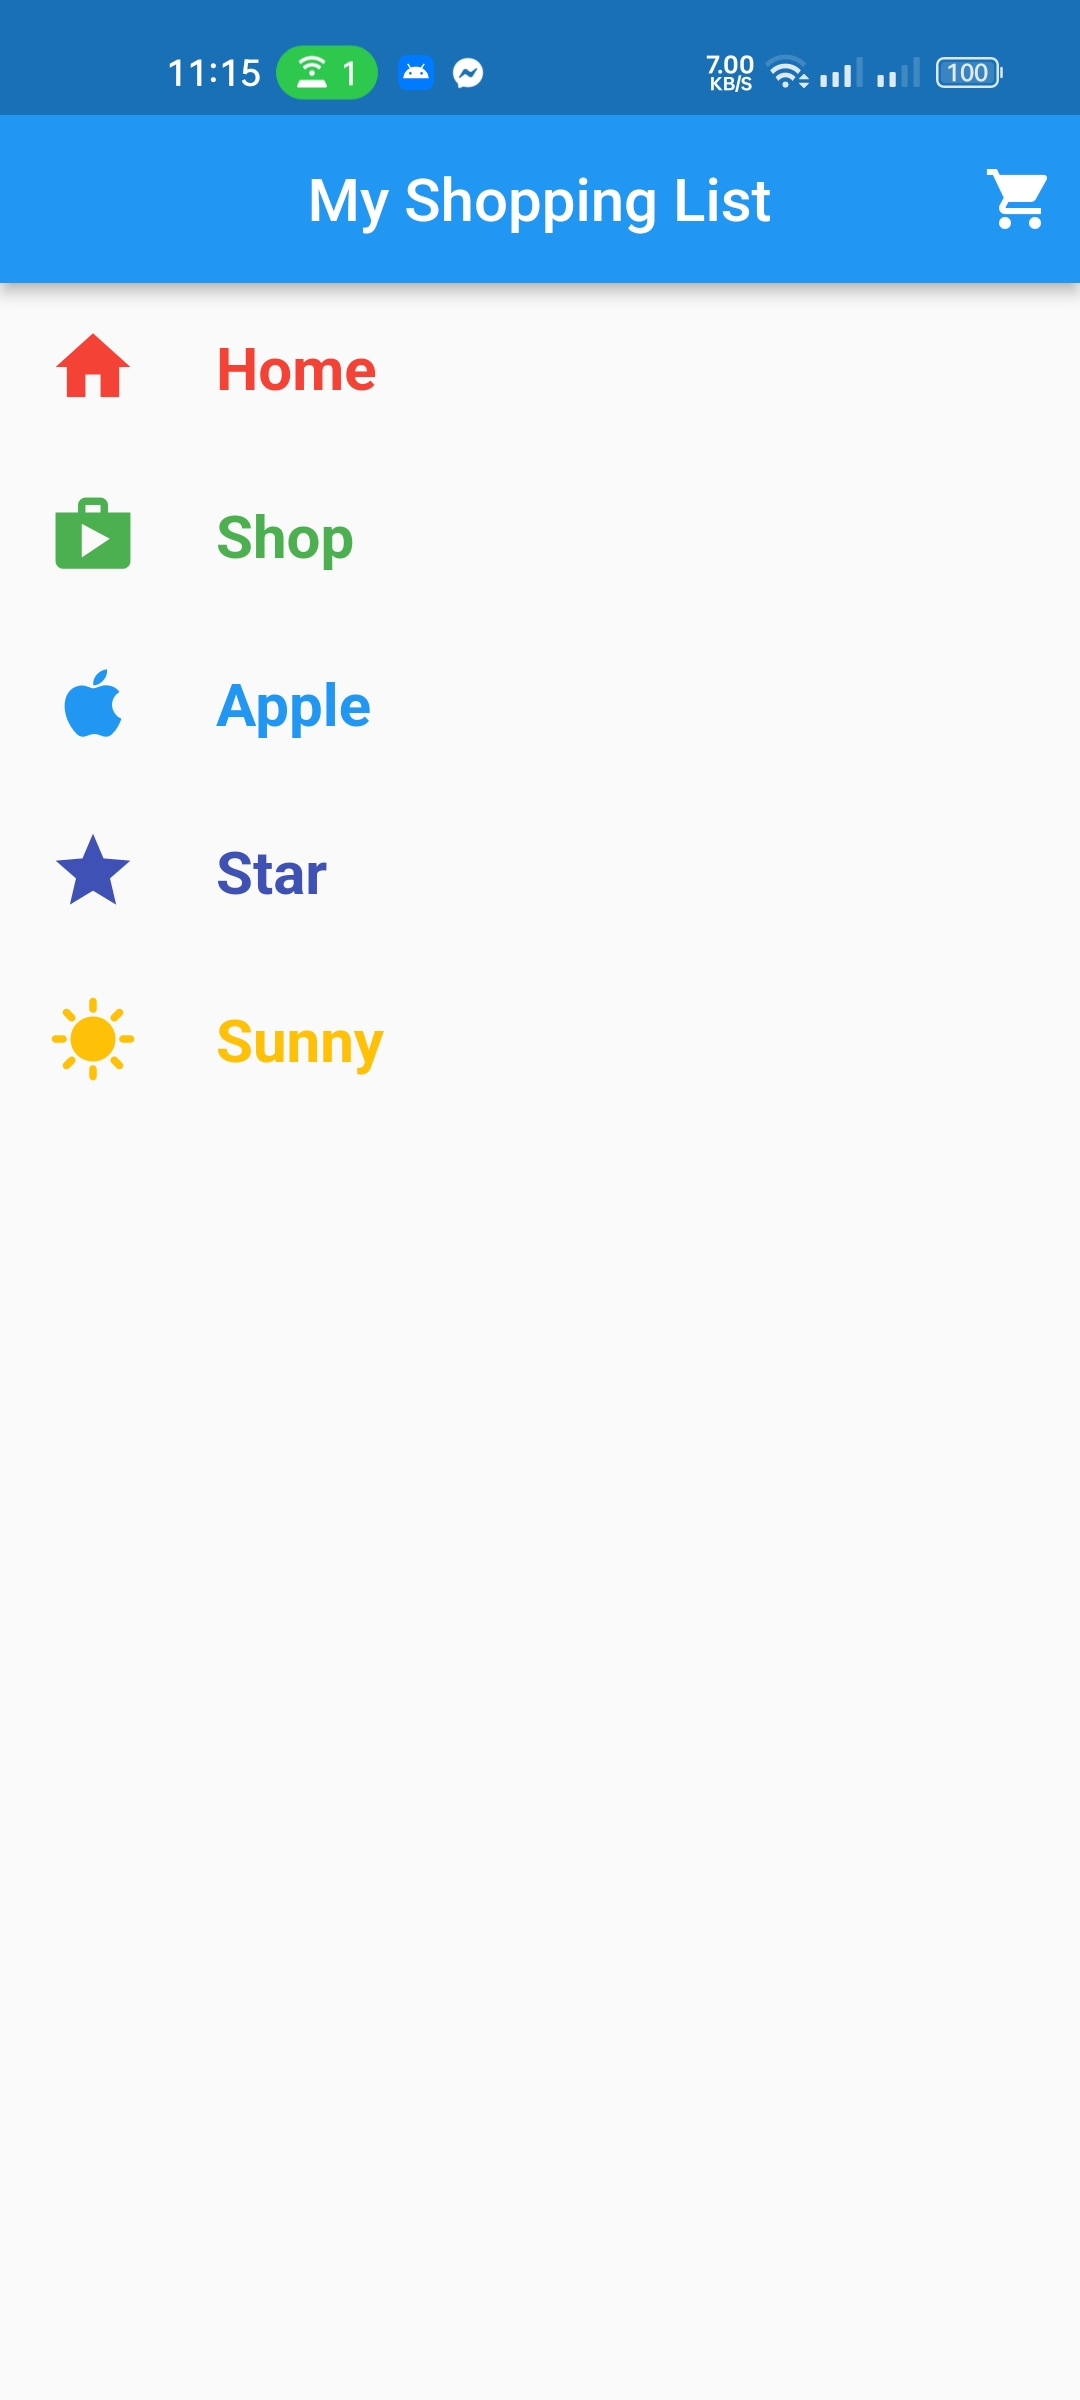
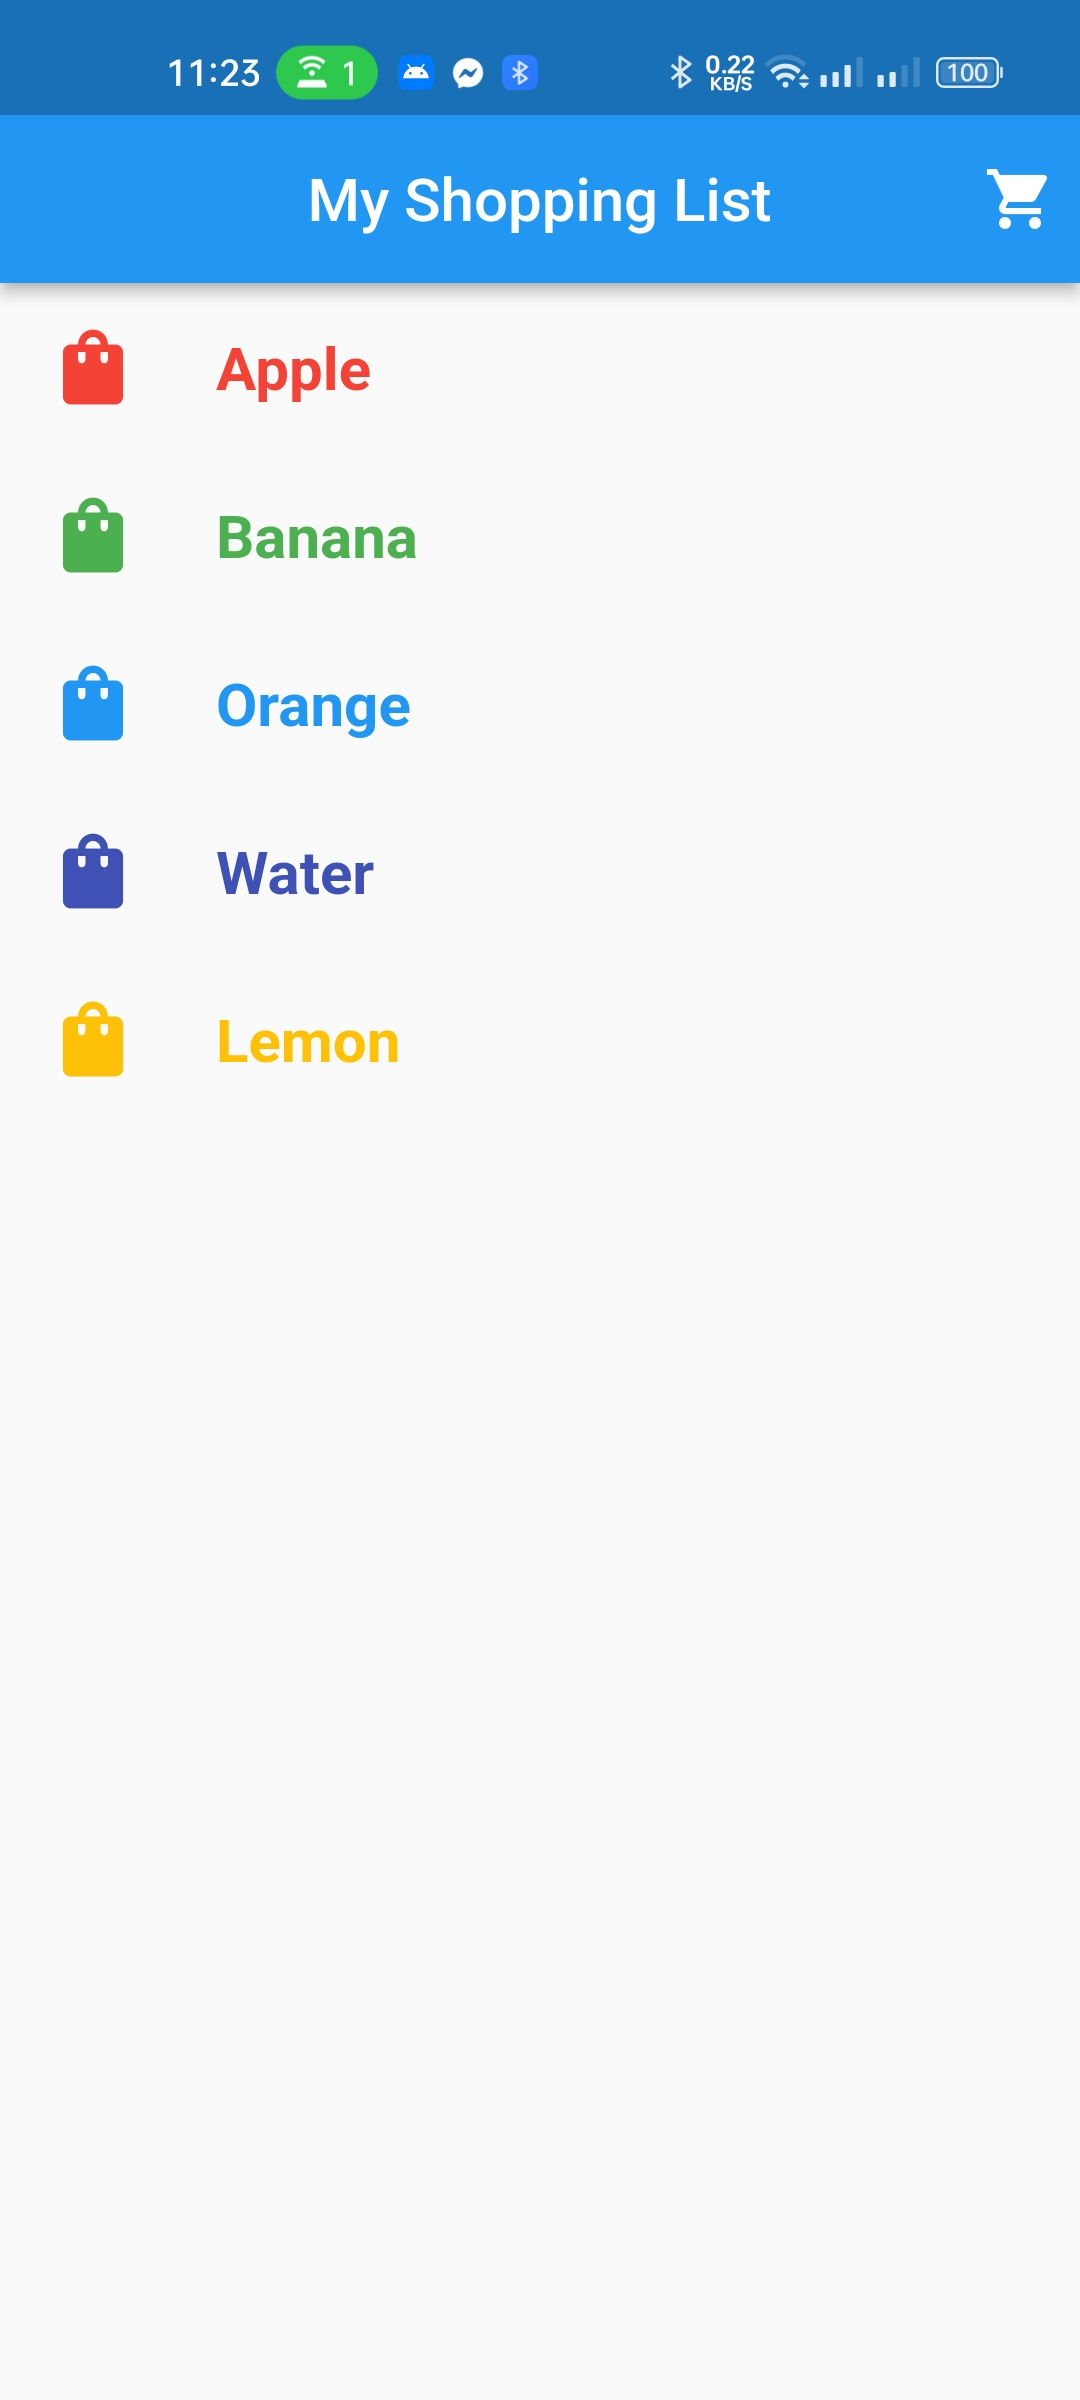
screenshot

diff --git a/module_6/lib/main.dart b/module_6/lib/main.dart
@@ -37,12 +37,12 @@ class HomeScreen extends StatelessWidget {
         children: [
           ListTile(
             leading: Icon(
-              Icons.home,
+              Icons.shopping_bag,
               size: 30,
               color: Colors.red,
             ),
             title: Text(
-              "Home",
+              "Apple",
               style: TextStyle(
                 color: Colors.red,
                 fontSize: 20,
@@ -52,12 +52,12 @@ class HomeScreen extends StatelessWidget {
           ),
           ListTile(
             leading: Icon(
-              Icons.shop,
+              Icons.shopping_bag,
               size: 30,
               color: Colors.green,
             ),
             title: Text(
-              "Shop",
+              "Banana",
               style: TextStyle(
                 color: Colors.green,
                 fontSize: 20,
@@ -67,12 +67,12 @@ class HomeScreen extends StatelessWidget {
           ),
           ListTile(
             leading: Icon(
-              Icons.apple,
+              Icons.shopping_bag,
               size: 30,
               color: Colors.blue,
             ),
             title: Text(
-              "Apple",
+              "Orange",
               style: TextStyle(
                 color: Colors.blue,
                 fontSize: 20,
@@ -82,12 +82,12 @@ class HomeScreen extends StatelessWidget {
           ),
           ListTile(
             leading: Icon(
-              Icons.star,
+              Icons.shopping_bag,
               size: 30,
               color: Colors.indigo,
             ),
             title: Text(
-              "Star",
+              "Water",
               style: TextStyle(
                 color: Colors.indigo,
                 fontSize: 20,
@@ -97,12 +97,12 @@ class HomeScreen extends StatelessWidget {
           ),
           ListTile(
             leading: Icon(
-              Icons.sunny,
+              Icons.shopping_bag,
               size: 30,
               color: Colors.amber,
             ),
             title: Text(
-              "Sunny",
+              "Lemon",
               style: TextStyle(
                 color: Colors.amber,
                 fontSize: 20,
